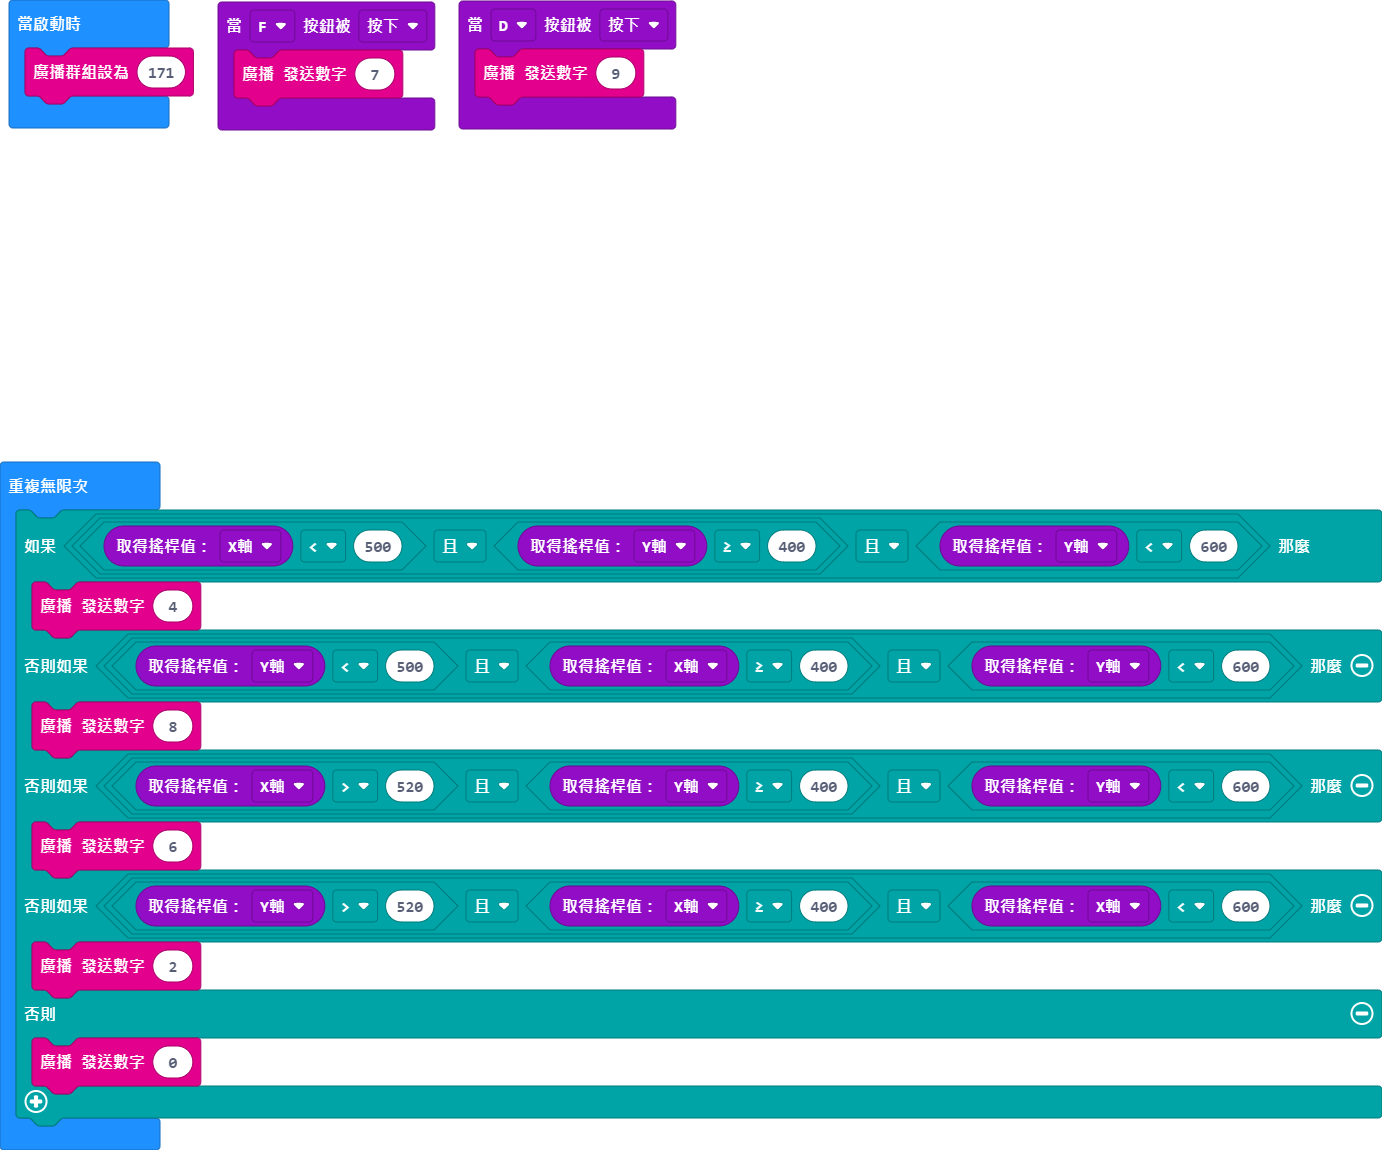
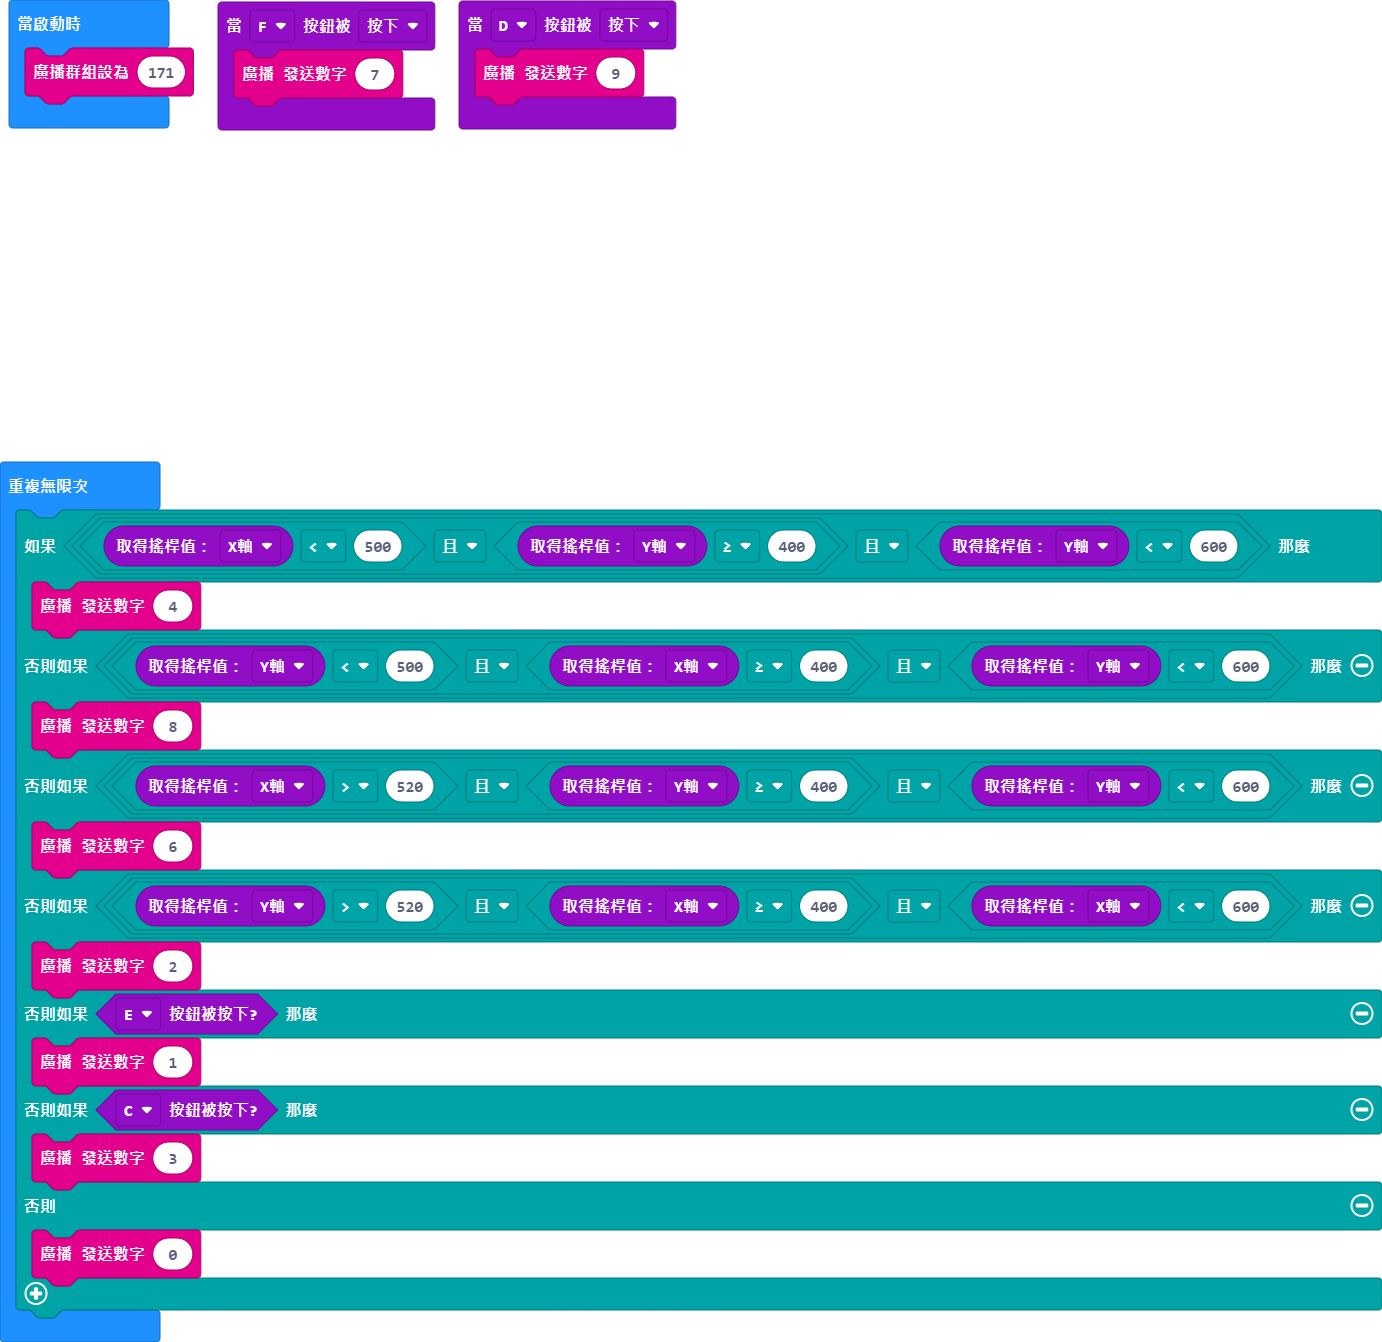
更新 main.blocks, main.ts

diff --git a/main.ts b/main.ts
@@ -14,6 +14,10 @@ basic.forever(function () {
         radio.sendNumber(6)
     } else if (KSB045.getJoystickValue(KSB045.valueType.Y) > 520 && KSB045.getJoystickValue(KSB045.valueType.X) >= 400 && KSB045.getJoystickValue(KSB045.valueType.X) < 600) {
         radio.sendNumber(2)
+    } else if (KSB045.getBtnValue(KSB045.btnName.E)) {
+        radio.sendNumber(1)
+    } else if (KSB045.getBtnValue(KSB045.btnName.C)) {
+        radio.sendNumber(3)
     } else {
         radio.sendNumber(0)
     }
